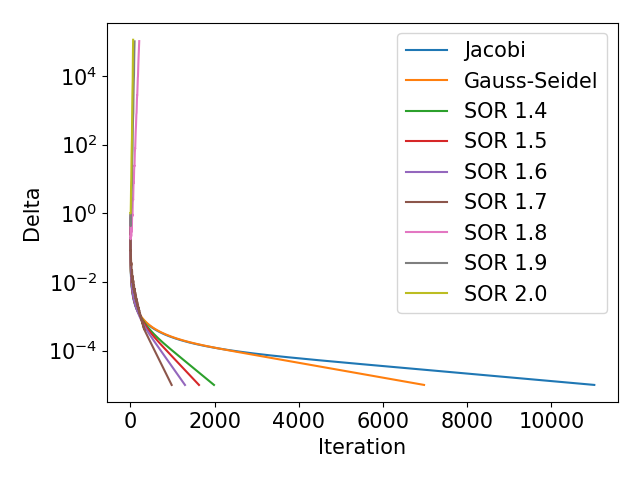
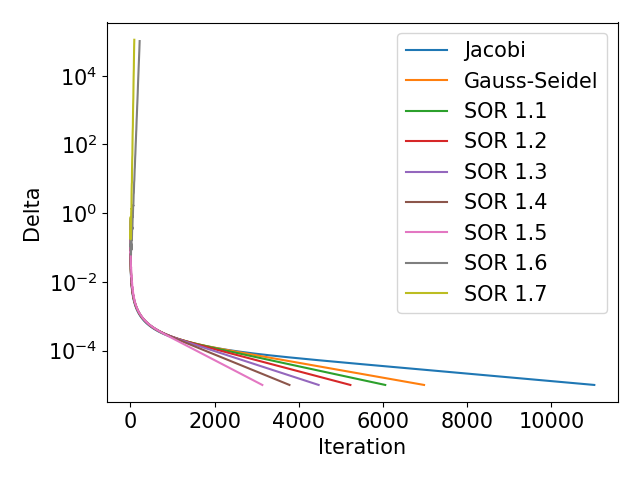
test

diff --git a/time_independent_diff.py b/time_independent_diff.py
@@ -75,14 +75,15 @@ def successive_over_relaxation(omega, N=100):
     delta_list = []
 
     while delta > 1e-5 and delta < 1e5 and counter < 1e4:
+        print(counter, end='\r')
         # print(f"{max(abs(grid_list[-1] - grid_list[-2]).flatten()):.7f}", end='\r')
         new_grid = np.zeros((N, N))
         new_grid[-1] = 1
         for y in range(1, N-1):
-            new_grid[y][0] = 0.25 * (grid[y + 1][0] + grid[y - 1][0] + grid[y][1] + grid[y][-1]) + (1 - omega) * grid[y][0]
+            new_grid[y][0] = 0.25 * omega * (grid[y + 1][0] + grid[y - 1][0] + grid[y][1] + grid[y][-1]) + (1 - omega) * grid[y][0]
             for x in range(1, N-1):
                 new_grid[y][x] = (1 - omega) * grid[y][x] + omega * 0.25 * (grid[y + 1][x] + new_grid[y - 1][x] + grid[y][x + 1] + new_grid[y][x - 1])
-            new_grid[y][-1] = 0.25 * (grid[y + 1][-1] + new_grid[y - 1][-1] + grid[y][-2] + new_grid[y][0]) + (1 - omega) * grid[y][-1]
+            new_grid[y][-1] = 0.25 * omega * (grid[y + 1][-1] + new_grid[y - 1][-1] + grid[y][-2] + new_grid[y][0]) + (1 - omega) * grid[y][-1]
 
         grid = new_grid.copy()
         grid_list.append(grid.copy())
@@ -91,6 +92,8 @@ def successive_over_relaxation(omega, N=100):
         delta_list.append(delta)
 
         counter += 1
+
+    print(delta)
     # print()
     # print(counter)
     # print(delta)
@@ -123,7 +126,7 @@ def sink_simulation(x1, x2, y1, y2):
 # gauss_list = gauss_seidel()
 # plt.plot(jacobi_list, label='Jacobi')
 # plt.plot(gauss_list, label='Gauss-Seidel')
-# for omega in np.arange(1.4, 2, 0.1):
+# for omega in np.arange(1.1, 1.8, 0.1):
 #     print(omega)
 #     sor_list = successive_over_relaxation(omega)
 #     plt.plot(sor_list, label=f'SOR {omega:.1f}')
@@ -137,10 +140,11 @@ def sink_simulation(x1, x2, y1, y2):
 # plt.savefig("jacobi_gauss_sor.png")
 
 
+
 min_iterations = 1e5
 for N in [25, 50, 75, 100]:
     print(f"N = {N}")
-    for omega in np.arange(1.6, 2, 0.01):
+    for omega in np.arange(1.4, 1.6, 0.01):
         print(f"omega = {omega}", end='\r')
         delta_list = successive_over_relaxation(omega, N)
         iterations = len(delta_list)

diff --git a/diffusion.py b/diffusion.py
@@ -48,21 +48,20 @@ animation_frames = 100
 
 grid_list = simulation(100, 1, 1, delta_t, run_simulation=False)
 
-# for t in [1e-20, 0.001, 0.01, 0.1, 1]:
-#     analytical_list = analytical(1, t, 100)
-#     plt.plot(np.linspace(0, 1, 100), grid_list[int(t/(animation_frames*delta_t))+1][:,0], label=f"Simulation t={t:.3f}")
-#     plt.plot(np.linspace(0, 1, 100), analytical_list, label=f"Analytical t={t:.3f}", linestyle='--')
-# plt.legend()
-# plt.xlabel("x")
-# plt.ylabel("Concentration")
-# plt.savefig("experimental_analytical.png")
-# plt.clf()
+for t in [1e-20, 0.001, 0.01, 0.1, 1]:
+    analytical_list = analytical(1, t, 100)
+    plt.plot(np.linspace(0, 1, 100), grid_list[int(t/(animation_frames*delta_t))+1][:,0], label=f"Simulation t={t:.3f}")
+    plt.plot(np.linspace(0, 1, 100), analytical_list, label=f"Analytical t={t:.3f}", linestyle='--')
+plt.legend()
+plt.xlabel("y")
+plt.ylabel("Concentration")
+plt.savefig("experimental_analytical.png")
+plt.clf()
 
-i = 1
-print(len(grid_list))
+# print(len(grid_list))
 
-for t in [0, 0.001, 0.01, 0.1, 1]:
-    plt.imshow(grid_list[int(t/(animation_frames*delta_t))], origin='lower')
-    plt.xlabel("x")
-    plt.ylabel("y")
-    plt.savefig(f"animation_{t}.png")
+# for t in [0, 0.001, 0.01, 0.1, 1]:
+#     plt.imshow(grid_list[int(t/(animation_frames*delta_t))], origin='lower')
+#     plt.xlabel("x")
+#     plt.ylabel("y")
+#     plt.savefig(f"animation_{t}.png")
